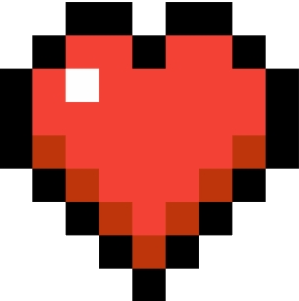
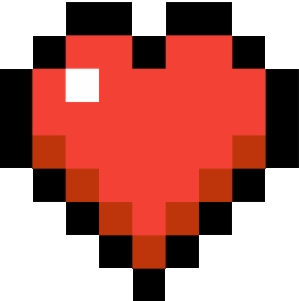
give up
- failed to animate muffet
- fixed heart image
- need to give hart to muf

diff --git a/Friend.java b/Friend.java
@@ -13,14 +13,16 @@ public class Friend extends Actor
     private String name;
     GreenfootImage idle;
     SimpleTimer animTimer;
+    private boolean isFacingRight = true;
+    
     /**
      * Constructor for the class. Sets the images of the NPCs 
      * and sets the animations.
      */
     public Friend(String name)
     {
-        
         this.name = name;
+        /*
         //rightWalk = new GreenfootImage[4];
         //leftWalk = new GreenfootImage[4];
         for(int i = 0; i < rightWalk.length; i++)
@@ -33,6 +35,22 @@ public class Friend extends Actor
         GreenfootImage idle = new GreenfootImage("images/" + name + "/" + name + "-idle-0.png");
         setImage(idle);
         animTimer = new SimpleTimer();
+        */
+        
+        //GreenfootImage image = new GreenfootImage("images/elephant_idle/idle0.png");
+        rightWalk = new GreenfootImage[4];
+        leftWalk = new GreenfootImage[4];
+        for(int i = 0; i < rightWalk.length; i++){
+            leftWalk[i] = new GreenfootImage("images/" + name + "/" + name + "-walk-" + i + ".png");
+            leftWalk[i].scale(100,100);
+            rightWalk[i] = new GreenfootImage("images/" + name + "/" + name + "-walk-" + i + ".png");
+            rightWalk[i].mirrorHorizontally();
+            rightWalk[i].scale(100,100);
+        }
+        GreenfootImage idle = new GreenfootImage("images/" + name + "/" + name + "-idle-0.png");
+        setImage(idle);
+        animTimer = new SimpleTimer();
+        animTimer.mark();
     }
     
     /**
@@ -67,20 +85,19 @@ public class Friend extends Actor
      * scale bigger - multiplies the image size of the friend by the factor
      */
     
+    /*
     public void scaleBigger(String name, int factor)
     {
-        
         for(int i = 0; i < rightWalk.length; i++)
         {
-            //idle[i] = new GreenfootImage("images/" + name + "/" + name + "-idle-" + i + ".png");
             leftWalk[i].scale(leftWalk[i].getWidth() * factor, leftWalk[i].getHeight() * factor);
             rightWalk[i].scale(rightWalk[i].getWidth() * factor, rightWalk[i].getHeight() * factor);
-            
         }
         GreenfootImage idle = new GreenfootImage("images/" + name + "/" + name + "-idle-0.png");
         idle.scale(idle.getWidth() * factor, idle.getHeight() * factor);
     
     }
+    */
     
     /**
      * WalkX - moves the Friend horizontally towards an x coordinate
@@ -103,6 +120,7 @@ public class Friend extends Actor
     int curIndex = 0;
     public void animate(boolean goRight, boolean stopped)
     {
+        /*
         if(animTimer.millisElapsed() > 110)
         {
             if(stopped == true){
@@ -118,6 +136,17 @@ public class Friend extends Actor
             }
             curIndex++;
             curIndex %= 3;
+            animTimer.mark();
+        }
+        */
+        if(animTimer.millisElapsed() > 100){
+            if(isFacingRight){
+                setImage(rightWalk[curIndex]);
+            } else {
+                setImage(leftWalk[curIndex]);
+            }
+            curIndex++;
+            curIndex %= 4;
             animTimer.mark();
         }
     }

diff --git a/Maze.java b/Maze.java
@@ -30,17 +30,20 @@ public class Maze extends World
         addObject(frisk, 20, 384);
         
         //add muffet
-        addObject(muffet, 300, 200);
-        //muffet.scaleBigger);
+        addObject(muffet, 575, 25);
         
         //add heart
         Heart heart = new Heart(25, 25);
         addObject(heart, 430, 313);
         
         //add potions
+        //no
         
         //add spikes
         buildSpikes();
+        
+        //give heart
+        
     }
     
     public void buildSpikes()

diff --git a/Player.java b/Player.java
@@ -72,9 +72,7 @@ public class Player extends Actor
         if(isTouching(Heart.class))
         {
             removeTouching(Heart.class);
-            //MyWorld world = (MyWorld) getWorld();
             collectedHeart = true;
-            //need to increase score
         }
     }
     
